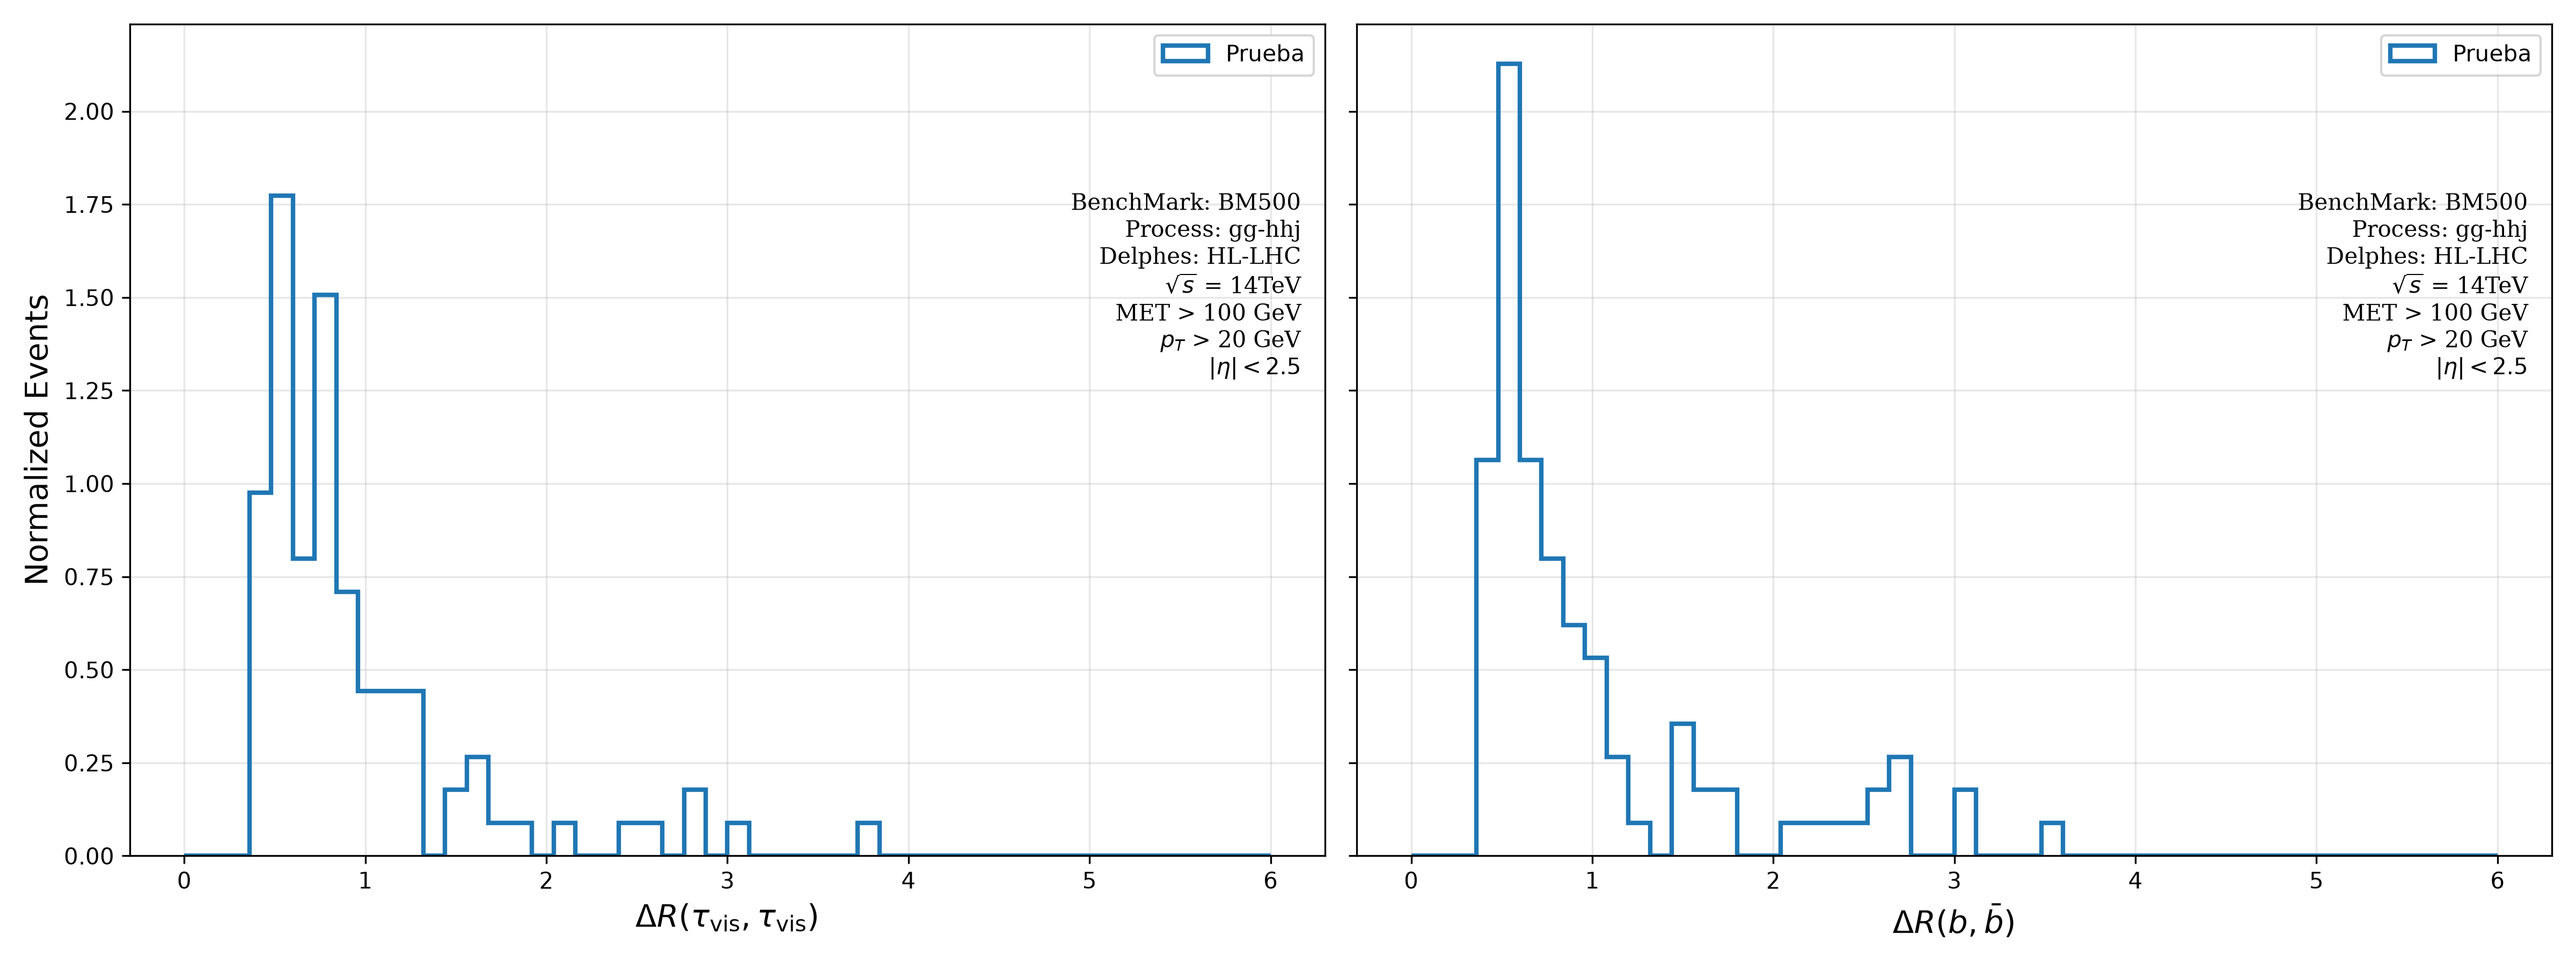
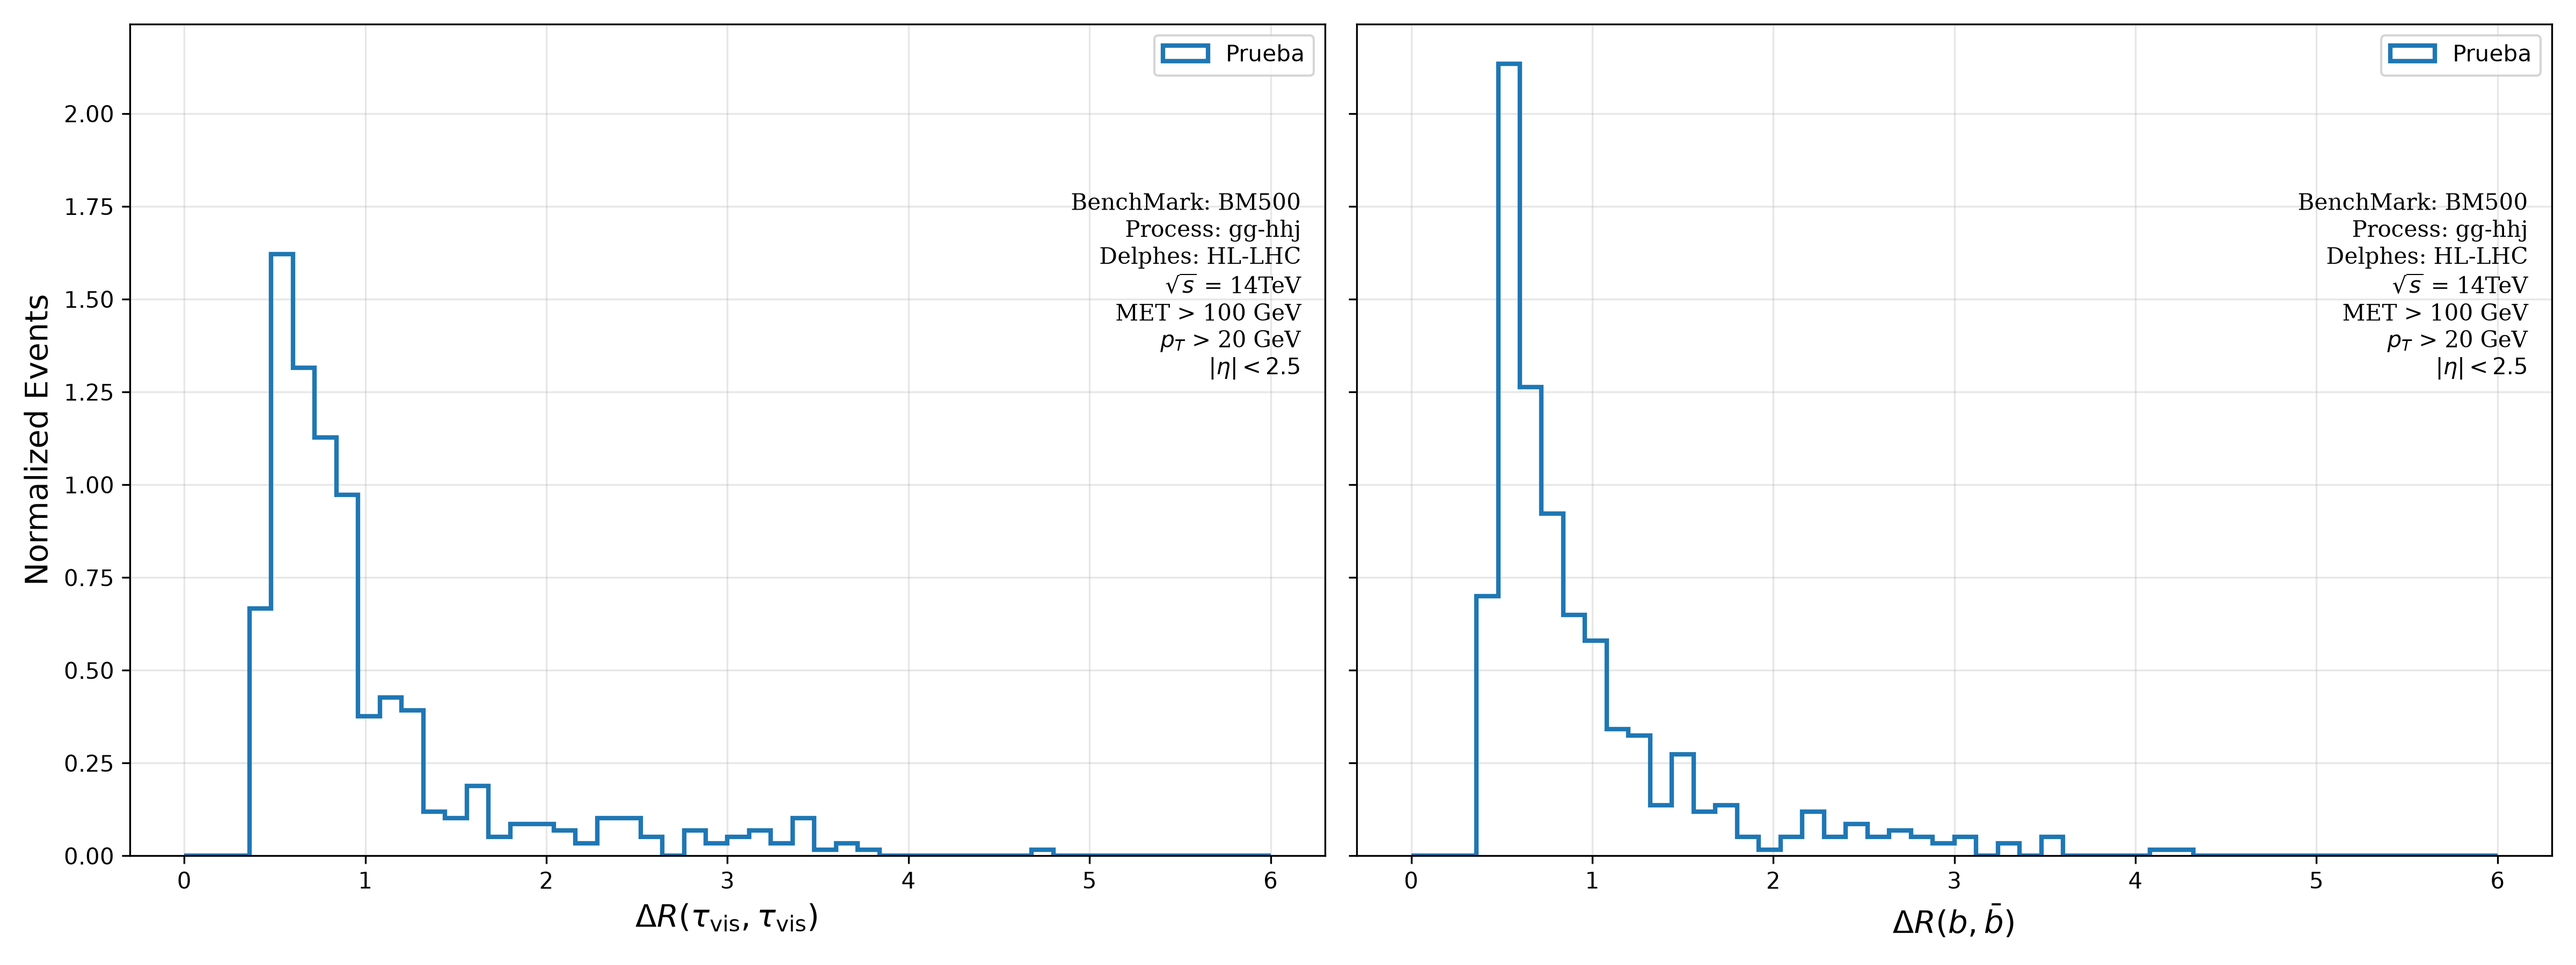
New ROC.py

diff --git a/RecAnalysis/plot_roc.py b/RecAnalysis/plot_roc.py
@@ -1,0 +1,47 @@
+import h5py
+import matplotlib.pyplot as plt
+import numpy as np
+
+# --- Ajustar ---
+FILE_SIG = "logs/<run>/ckpts/<ckpt>__test_sig.h5"
+FILE_BKG = "logs/<run>/ckpts/<ckpt>__test_bkg.h5"
+OBJ = "events"  # objeto global (data.global_object)
+SCORE = "MiModelo_psignal"  # <name>_p<clase de señal>
+WPS = [0.5, 0.7, 0.85]  # working points a marcar (eficiencia de señal)
+
+
+def load(fname):
+    with h5py.File(fname) as h:
+        return h[OBJ].fields(SCORE)[...].astype(np.float64)
+
+
+s_sig, s_bkg = load(FILE_SIG), load(FILE_BKG)
+
+# ROC: ordenar todos los scores de mayor a menor y acumular
+scores = np.concatenate([s_sig, s_bkg])
+is_sig = np.concatenate([np.ones_like(s_sig), np.zeros_like(s_bkg)])
+order = np.argsort(-scores, kind="stable")
+eff_sig = np.concatenate([[0], np.cumsum(is_sig[order]) / len(s_sig)])
+eff_bkg = np.concatenate([[0], np.cumsum(1 - is_sig[order]) / len(s_bkg)])
+auc = np.trapezoid(1 - eff_bkg, eff_sig)
+
+fig, ax = plt.subplots(figsize=(6, 5))
+ax.plot(eff_sig, 1 - eff_bkg, label=f"Salt (AUC = {auc:.4f})")
+ax.plot([0, 1], [1, 0], "k--", lw=0.8, label="Aleatorio")
+
+for wp in WPS:
+    cut = np.percentile(s_sig, 100 * (1 - wp))
+    eb = np.mean(s_bkg > cut)
+    ax.plot(wp, 1 - eb, "o")
+    ax.annotate(f"WP {wp:.0%}: corte={cut:.3f}, $1-\\epsilon_{{bg}}$={1 - eb:.3f}",
+                (wp, 1 - eb), textcoords="offset points", xytext=(-10, -15),
+                ha="right", fontsize=8)
+
+ax.set_xlabel(r"$\epsilon_{sig}$")
+ax.set_ylabel(r"$1 - \epsilon_{bg}$")
+ax.set_xlim(0, 1)
+ax.set_ylim(0, 1.02)
+ax.grid(alpha=0.3)
+ax.legend(loc="lower left")
+fig.tight_layout()
+fig.savefig("roc.png", dpi=200)

diff --git a/RecAnalysis/ROOT_analyzer.py b/RecAnalysis/ROOT_analyzer.py
@@ -22,7 +22,7 @@ saving_path = 'RecAnalysis/'
 
 # MET Selection
 
-MET_LowerBond = 0     # GeV
+MET_LowerBond = 100     # GeV
 
 # Jets preselection cuts
 Pre_PT_jet = 20       # GeV
